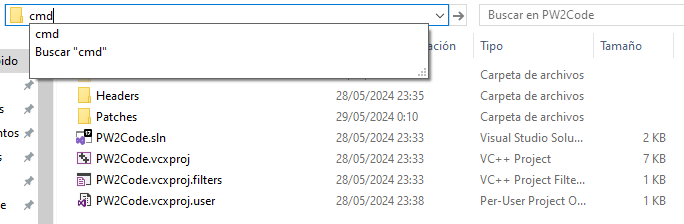
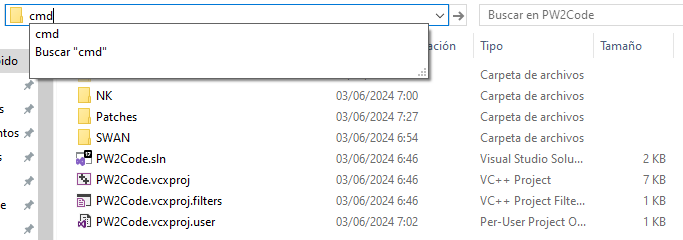
Fixed the issue pointed at by the pull request comments

diff --git a/docs/generation-v/guides/b2w2-code_injection_set_up/b2w2-code_injection_set_up.md b/docs/generation-v/guides/b2w2-code_injection_set_up/b2w2-code_injection_set_up.md
@@ -10,7 +10,7 @@ tags:
 
 This guide will take you thought the steps to get a working Code Injection environment to make your own patches and/or compile patches from other people in Gen V games (White 2 recommended).
 
-This is a practical guide so it doesn't stop to explain the reason behind the steps, it is NOT a replacement for the [Code Injection guide](https://ds-pokemon-hacking.github.io/docs/generation-v/guides/bw_b2w2-code_injection/), but it should help getting started in a practical way. It should also do the trick if you only want to compile a patch, even if you can't code yourself.
+This is a practical guide so it doesn't stop to explain the reason behind the steps, it is NOT a replacement for the [Code Injection guide](../bw_b2w2-code_injection), but it should help getting started in a practical way. It should also do the trick if you only want to compile a patch, even if you can't code yourself.
 
 Disclaimers:
 - The guide uses Windows 10 and [Visual Studio](https://visualstudio.microsoft.com/es/), you can use other operating systems and IDEs as long as the tools are compatible, but most steps in this guide will not be valid for you and you will have to find out how to do them in your set up
@@ -37,30 +37,34 @@ Before starting I recomend creating a ``CodeInjection`` folder to store all code
 
 ### File structure
 1. Create an Empty C++ Project inside of the ``CodeInjection`` folder, for this guide it will be called PW2Code
-2. Download the [SWAN headers](https://github.com/ds-pokemon-hacking/swan) and save all the files and folder in ``CodeInjection/PW2Code/Headers``
-3. Create ``CodeInjection/PW2Code/Patches`` (here will go all your code)
-4. Go to https://github.com/HelloOO7/NitroKernel and download the code as a ZIP file
-5. Extract the files and rename the ``include`` folder to ``kernel``
-6. move the ``kenel`` folder to ``CodeInjection/PW2Code/Headers``
+2. Create a folder named "SWAN" at ``CodeInjection/PW2Code`` 
+3. Clone the [SWAN repositiory](https://github.com/ds-pokemon-hacking/swan) in the ``CodeInjection/PW2Code/SWAN`` folder
+4. Create a folder named "NK" at ``CodeInjection/PW2Code`` 
+5. Clone the [NitroKernel repositiory](https://github.com/HelloOO7/NitroKernel) in the ``CodeInjection/PW2Code/NK`` folder
+6. Create ``CodeInjection/PW2Code/Patches`` (here will go all your code)
 
 File structure should look like this:
 - CodeInjection
   - PW2Code
-    - Headers
-      - battle
-      - data
-      - ext_lib
-      - field
-      - gfl
-      - kernel
-      - math
-      - nds
-      - ns
-      - pml
-      - save
-      - system
-      - swan_cpp_enum_ops.h
-      - swantypes.h
+    - SWAN
+	  - swan
+        - battle
+        - data
+        - field
+        - gfl
+        - math
+        - nds
+        - ns
+        - pml
+        - save
+        - system
+        - swan_cpp_enum_ops.h
+        - swantypes.h
+	- NK
+	  - NitroKernel
+	    - .vscode
+		- include
+		- src
     - Patches
     - PW2Code.sln
     - PW2Code.vcxproj
@@ -71,21 +75,19 @@ File structure should look like this:
 1. Open the project with Visual Studio
 2. In the "Solution Explorer" view, click the ``Show All Files`` button (shows all the files in the project folder)
 ![](resources/vs_show_all_files.png)
-3. In the "Solution Explorer" view, select the Headers folder, "Right-Click" it and select the ``Include In Project`` option
+3. In the "Solution Explorer" view, select all the folders, "Right-Click" it and select the ``Include In Project`` option
 ![](resources/vs_include_in_project.png)
 4. In the "Solution Explorer" view, "Right-Click" the project and select ``Properties``
 5. Go to ``Configuration Properties -> VC++ Directories -> Include Directories`` and select ``<Edit...>``
 ![](resources/vs_include_paths_edit.png)
-6. In the "Include Directories" window, paste the path to the Headers folder or use the ``...`` button to look it up
+6. In the "Include Directories" window, paste the path to the ``swan`` and ``NitroKernel/include`` folders or use the ``...`` button to look them up    
 ![](resources/vs_add_include_path.png)
 7. Click ``Ok`` and remember to click ``Accept`` in the ``Properties`` window to save the changes
-8. Before going to the next section go to the ``k_Print.h`` file in Visual Studio and add ``#include <cstdarg>`` before ``#include "k_DllExport.h"`` (this fixes issues when using the print functions later)
-![](resources/print_fix.png)
 
 Now whenever you create a CPP file in the Patches folder you will be able to include any SWAN header and use its definitions.
 
 ### CTRMap set up
-For more in-depth CTRMap installation instructions check this [guide](https://ds-pokemon-hacking.github.io/docs/generation-v/guides/bw_b2w2-using_ctrmap/#setup).
+For more in-depth CTRMap installation instructions check this [guide](../bw_b2w2-using_ctrmap/#setup).
 
 1. Download [CTRMap-Community Edition](https://github.com/ds-pokemon-hacking/CTRMap-CE/releases)
 2. Download the [CTRMapV plug-in](https://github.com/ds-pokemon-hacking/CTRMapV/releases)
@@ -159,7 +161,7 @@ You will see many errors, now we have to define any struct, function or global v
 We don't have to declare functions or struct pointers that don't get used as a struct, defining them is enough (this is called forward declaration).
 
 1. Always remove ``__fastcall``, it is not necesary and we avoid a compiler warning
-2. We need to tell CTRMap that this function is overriding another one so we use a "tag" before the function name, in this case "THUMB_BRANCH" -> ``THUMB_BRANCH_BagSave_AddItemCore`` (for more info on the relocation type tags check the [Code Injection guide](https://ds-pokemon-hacking.github.io/docs/generation-v/guides/bw_b2w2-code_injection/#preparing-our-code-for-injection) )
+2. We need to tell CTRMap that this function is overriding another one so we use a "tag" before the function name, in this case "THUMB_BRANCH" -> ``THUMB_BRANCH_BagSave_AddItemCore`` (for more info on the relocation type tags check the [Code Injection guide](../bw_b2w2-code_injection/#preparing-our-code-for-injection) )
 3. General ``typedef`` like ``u16`` are in the ``swantypes.h`` file so we include it -> ``#include "swantypes.h"``
 4. The ``HeapID`` definition is in the ``gfl/core/gfl_heap.h`` file so we include it -> ``#include "gfl/core/gfl_heap.h"``
 5. ``BagSaveData`` is only used as a pointer so we can use forward declaration -> ``struct BagSaveData;``
@@ -171,16 +173,19 @@ We don't have to declare functions or struct pointers that don't get used as a s
 ![](resources/ida_struct_search.png)
 7. The function uses a function called "BagSave_GetItemHandleAddCheck" we can double click it in IDA to get de declaration -> ``BagItem * BagSave_GetItemHandleAddCheck(BagSaveData *bag, u16 item_idx, u16 quantity, HeapID heapId);``
 8. To make the changes we want we can analyze the function and see that the quantity to add is added to the bagItem::Count, so to double the items given we can multiply the quantity by 2 -> ``bagItem->Count += quantity * 2;``
-9. Finally we want to print a console message (this is very usefull since we can't use breakpoints):
-- 9.1. We include the print header -> ``#include "kernel/kPrint.h"``
-- 9.2. We make a print call at the end of the function to notify us of what happened -> ``k::Printf("Added %d of the following item -> %d\n", bagItem->ItemID, bagItem->Count);``
+9. Finally we want to print a console message (this is very useful since we can't use breakpoints):
+- 9.1. We include the print header -> ``#include "kPrint.h"``
+- 9.2. For kPrint to compile, we need to include the cstdarg header before -> ``#include <cstdarg>``
+- 9.3. We make a print call at the end of the function to notify us of what happened -> ``k::Printf("Added %d of the following item -> %d\n", bagItem->ItemID, bagItem->Count);``
 
 Now the patch is done and we should have the following code without any visible errors:
 
 ```
 #include "swantypes.h"
 #include "gfl/core/gfl_heap.h"
-#include "kernel/kPrint.h"
+
+#include <cstdarg>
+#include "kPrint.h"
 
 struct BagSaveData;
 struct BagItem
@@ -212,22 +217,21 @@ C_DECL_END
 ```
 
 ### Compiling a patch
-This instructions asume you followed the previous steps, your SWAN headers are in the ``CodeInjection/PW2Code/Headers`` folder and your code in the ``CodeInjection/PW2Code/Patches`` folder.
+These instructions assume you followed the previous steps, your SWAN headers are in the ``CodeInjection/PW2Code/Headers`` folder and your code in the ``CodeInjection/PW2Code/Patches`` folder.
 
 1. Open a cmd terminal in the PW2Code folder (in the "File Explorer" window go the the PW2Code folder, click the path input box, type "cmd" and clik "Enter")   
 ![](resources/open_cmd.png)
 2. Paste the following command in the terminal:    
-``arm-none-eabi-g++ -r -mthumb -I Headers -march=armv5t -Os Patches/DoubleItems.cpp -o DoubleItems.elf``   
-"-I" is the include path of the headers     
-"-Os" is the patch file     
-"-o" is the output file
+``arm-none-eabi-g++ Patches/DoubleItems.cpp -I SWAN/swan -I NK/NitroKernel/include -o DoubleItems.elf -r -mthumb -march=armv5t -Os``   
+General structure of the command for a C++ patch:    
+``arm-none-eabi-g++ [patch path] -I [include directory path] -o [output path] -r -mthumb -march=armv5t -Os``   
 
-I recomend that you set the output file to be in a specific folder for the elf files, to keep stuff organized.
+I recommend that you set the output file to be in a specific folder for the ELF files, to keep stuff organized.
 
 ### Injecting a patch
-You can use the ESDB in the SWAN headers but I recomend making your own using this [guide](https://ds-pokemon-hacking.github.io/docs/generation-v/guides/bw_b2w2-code_injection/#building-code-injection-patches). 
+You can use the ESDB in the SWAN headers but I recomend making your own using this [guide](../bw_b2w2-code_injection/#building-code-injection-patches). 
 
-Once you have the correct ESDB follow this steps:
+Once you have the correct ESDB follow these steps:
 
 1. Open your CTRMapProject and go to the "Extras" tab
 2. Click the ``Convert ELF to DLL`` button and select the correct ESDB, then the ELF file you just compiled and create the DLL
